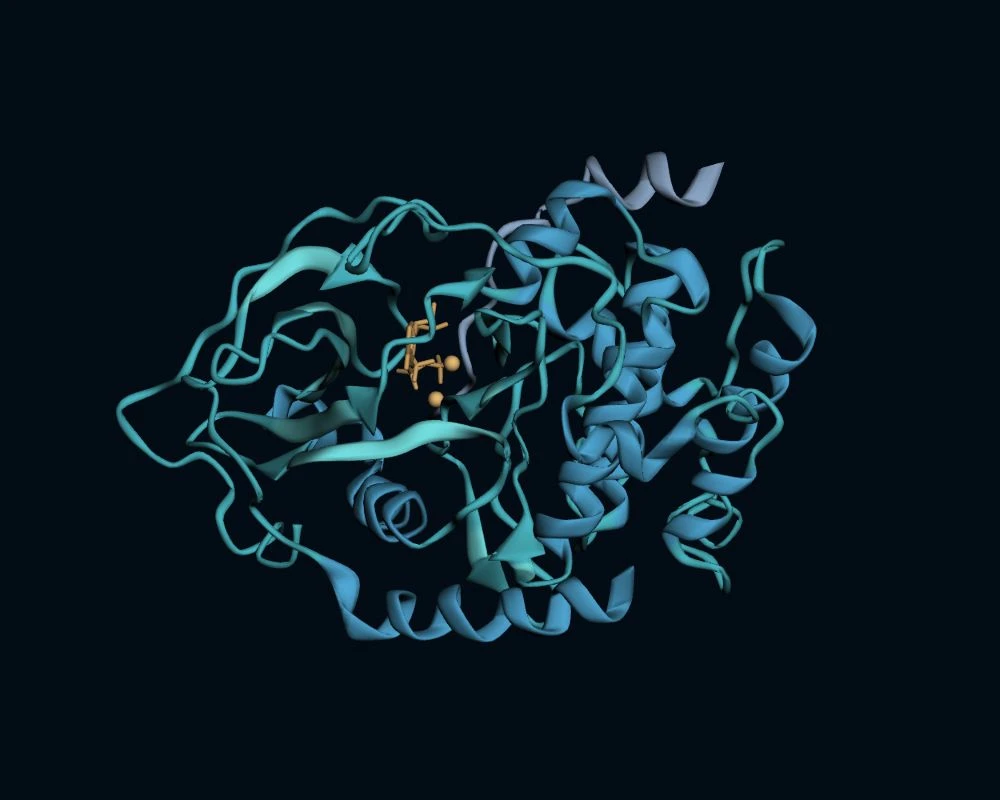
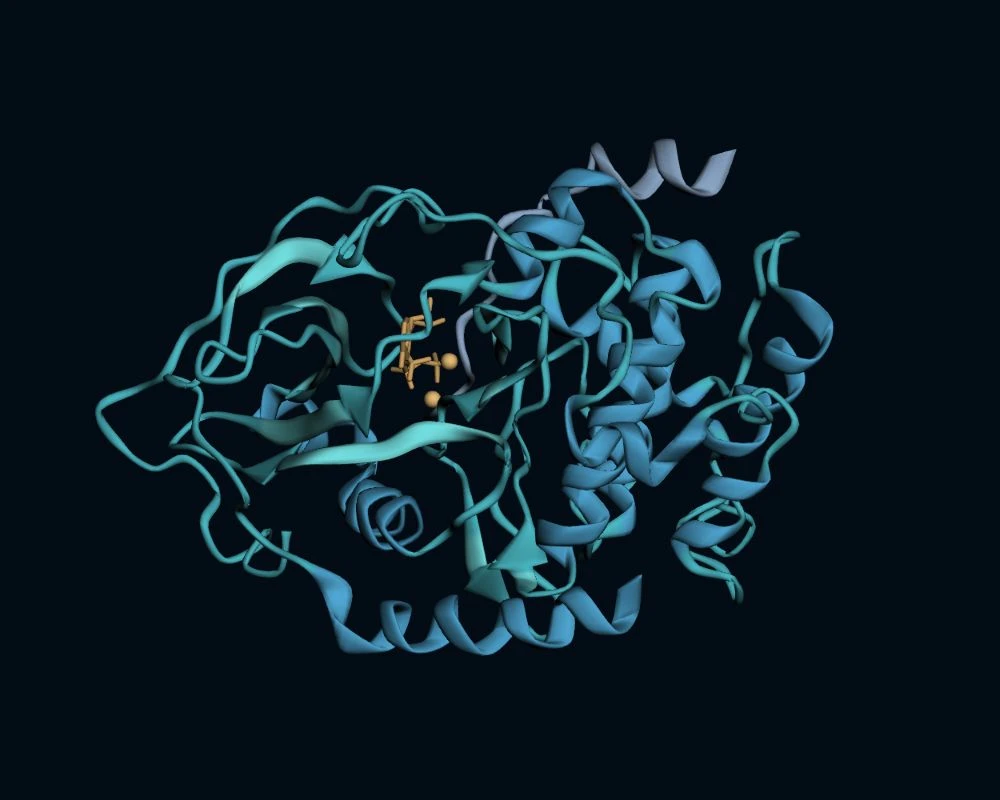
Slightly enlarge homepage protein and matching poster

Changed region(s): [[0.093, 0.1562, 0.837, 0.8438]]

diff --git a/index.html b/index.html
@@ -9,10 +9,10 @@
   <title>ATLL | Ahntibody’s Lifescience Lab</title>
   <link rel="canonical" href="https://ahntibody87.github.io/">
   <link rel="icon" href="/assets/favicon.svg" type="image/svg+xml">
-  <link rel="preload" as="image" href="/assets/home/kinase-poster.webp" fetchpriority="high">
-  <link rel="stylesheet" href="/assets/home.css?v=42a1eb88254b">
-  <script src="/assets/home.js?v=42a1eb88254b" defer></script>
-  <script src="/assets/home-protein.js?v=42a1eb88254b" defer></script>
+  <link rel="preload" as="image" href="/assets/home/kinase-poster.webp?v=3144c74f1b51" fetchpriority="high">
+  <link rel="stylesheet" href="/assets/home.css?v=3144c74f1b51">
+  <script src="/assets/home.js?v=3144c74f1b51" defer></script>
+  <script src="/assets/home-protein.js?v=3144c74f1b51" defer></script>
 </head>
 <body id="top">
   <a class="skip" href="#main">본문 바로가기</a>
@@ -30,7 +30,7 @@
     <section class="hero" id="about" aria-labelledby="lab-title">
       <div class="hero-visual" aria-hidden="true">
         <div class="protein-stage">
-          <img class="hero-image" src="/assets/home/kinase-poster.webp" width="1000" height="800" alt="" fetchpriority="high">
+          <img class="hero-image" src="/assets/home/kinase-poster.webp?v=3144c74f1b51" width="1000" height="800" alt="" fetchpriority="high">
           <div id="protein-view" data-model-src="/assets/home/1atp-kinase.pdb" data-renderer-src="/assets/home/vendor/3Dmol-2.5.5.min.js"></div>
         </div>
       </div>

diff --git a/assets/home-protein.js b/assets/home-protein.js
@@ -22,9 +22,9 @@
 
   function fitModel() {
     const aspect = host.clientWidth / Math.max(1, host.clientHeight);
-    // Full oblique-axis rotation envelope, ribbon/stick thickness and an 8% inset.
+    // Full oblique-axis rotation envelope, ribbon/stick thickness and an 3% inset.
     // 3Dmol 2.5.5 orthographic half-width = distance * tan(fov).
-    const halfWidth = Math.max(horizontalRadius + 3, (verticalRadius + 3) * aspect) / 0.92;
+    const halfWidth = Math.max(horizontalRadius + 3, (verticalRadius + 3) * aspect) / 0.97;
     const view = viewer.getView();
     view[3] = 150 - halfWidth / Math.tan(20 * Math.PI / 180);
     viewer.setView(view);

diff --git a/assets/home/README.md b/assets/home/README.md
@@ -7,7 +7,7 @@
 - 좌표 평균을 원점으로 옮기고 주성분 축으로 강체 회전했습니다(긴 축 X, 중간 축 Y, 짧은 축 Z, 오른손 좌표계). 상대 거리와 형태는 유지하며 PDB 소수 셋째 자리로 저장했습니다. wwPDB 이용 정책: https://www.wwpdb.org/about/usage-policies
 - 베타병풍은 밝은 청록, 알파나선은 파랑, 연결 부위는 청록, 억제 펩타이드는 옅은 청회색입니다. ATP와 MN은 절제된 금빛입니다. 색은 디자인 구분이며 실제 원자 색이 아닙니다.
 - 회전축은 정규화한 (0.93, 0.32, 0.18)입니다. 가로 윤곽을 유지하면서 앞뒤·위아래가 함께 변하는 사선 회전입니다. 초당 6도, 1분에 한 바퀴, 최대 약 30fps이며 화면 밖·숨긴 탭에서는 쉽니다. 단백질의 실제 분자 운동을 시뮬레이션하지 않습니다.
-- 각 원자의 사선 회전을 Rodrigues 공식으로 분해해 모든 각도의 최대 가로·세로 반경을 계산합니다. 표현 두께 3Å와 8% 여백을 포함해 카메라를 맞추며 화면 크기가 바뀌면 재계산합니다.
+- 각 원자의 사선 회전을 Rodrigues 공식으로 분해해 모든 각도의 최대 가로·세로 반경을 계산합니다. 표현 두께 3Å와 3% 여백을 포함해 카메라를 맞추며 화면 크기가 바뀌면 재계산합니다.
 - `kinase-poster.webp`: 같은 렌더러·스타일·20도 시작 각도로 캡처한 1000×800 첫 프레임입니다. 이미지와 WebGL은 동일한 5:4 영역을 사용합니다. 구조·스타일·각도가 바뀌면 이 이미지도 다시 캡처합니다. WebGL 실패 시에도 같은 모델의 정지 이미지가 남습니다.
 - 데스크톱 시각 영역을 왼쪽으로 당겨 문구와의 간격을 줄였습니다. 모바일·태블릿에서는 본문 아래 중앙에 배치합니다. 모든 영역에 overflow 및 paint containment를 적용합니다.
 - `vendor/3Dmol-2.5.5.min.js`: [3Dmol.js](https://3dmol.org/), BSD-3-Clause, 고정 버전 2.5.5. 라이선스는 같은 폴더의 `LICENSE-3Dmol.txt`, `3Dmol-min.js.LICENSE.txt`에 있습니다. 모델과 라이브러리는 같은 사이트에서 제공하며 외부 CDN을 사용하지 않습니다.
